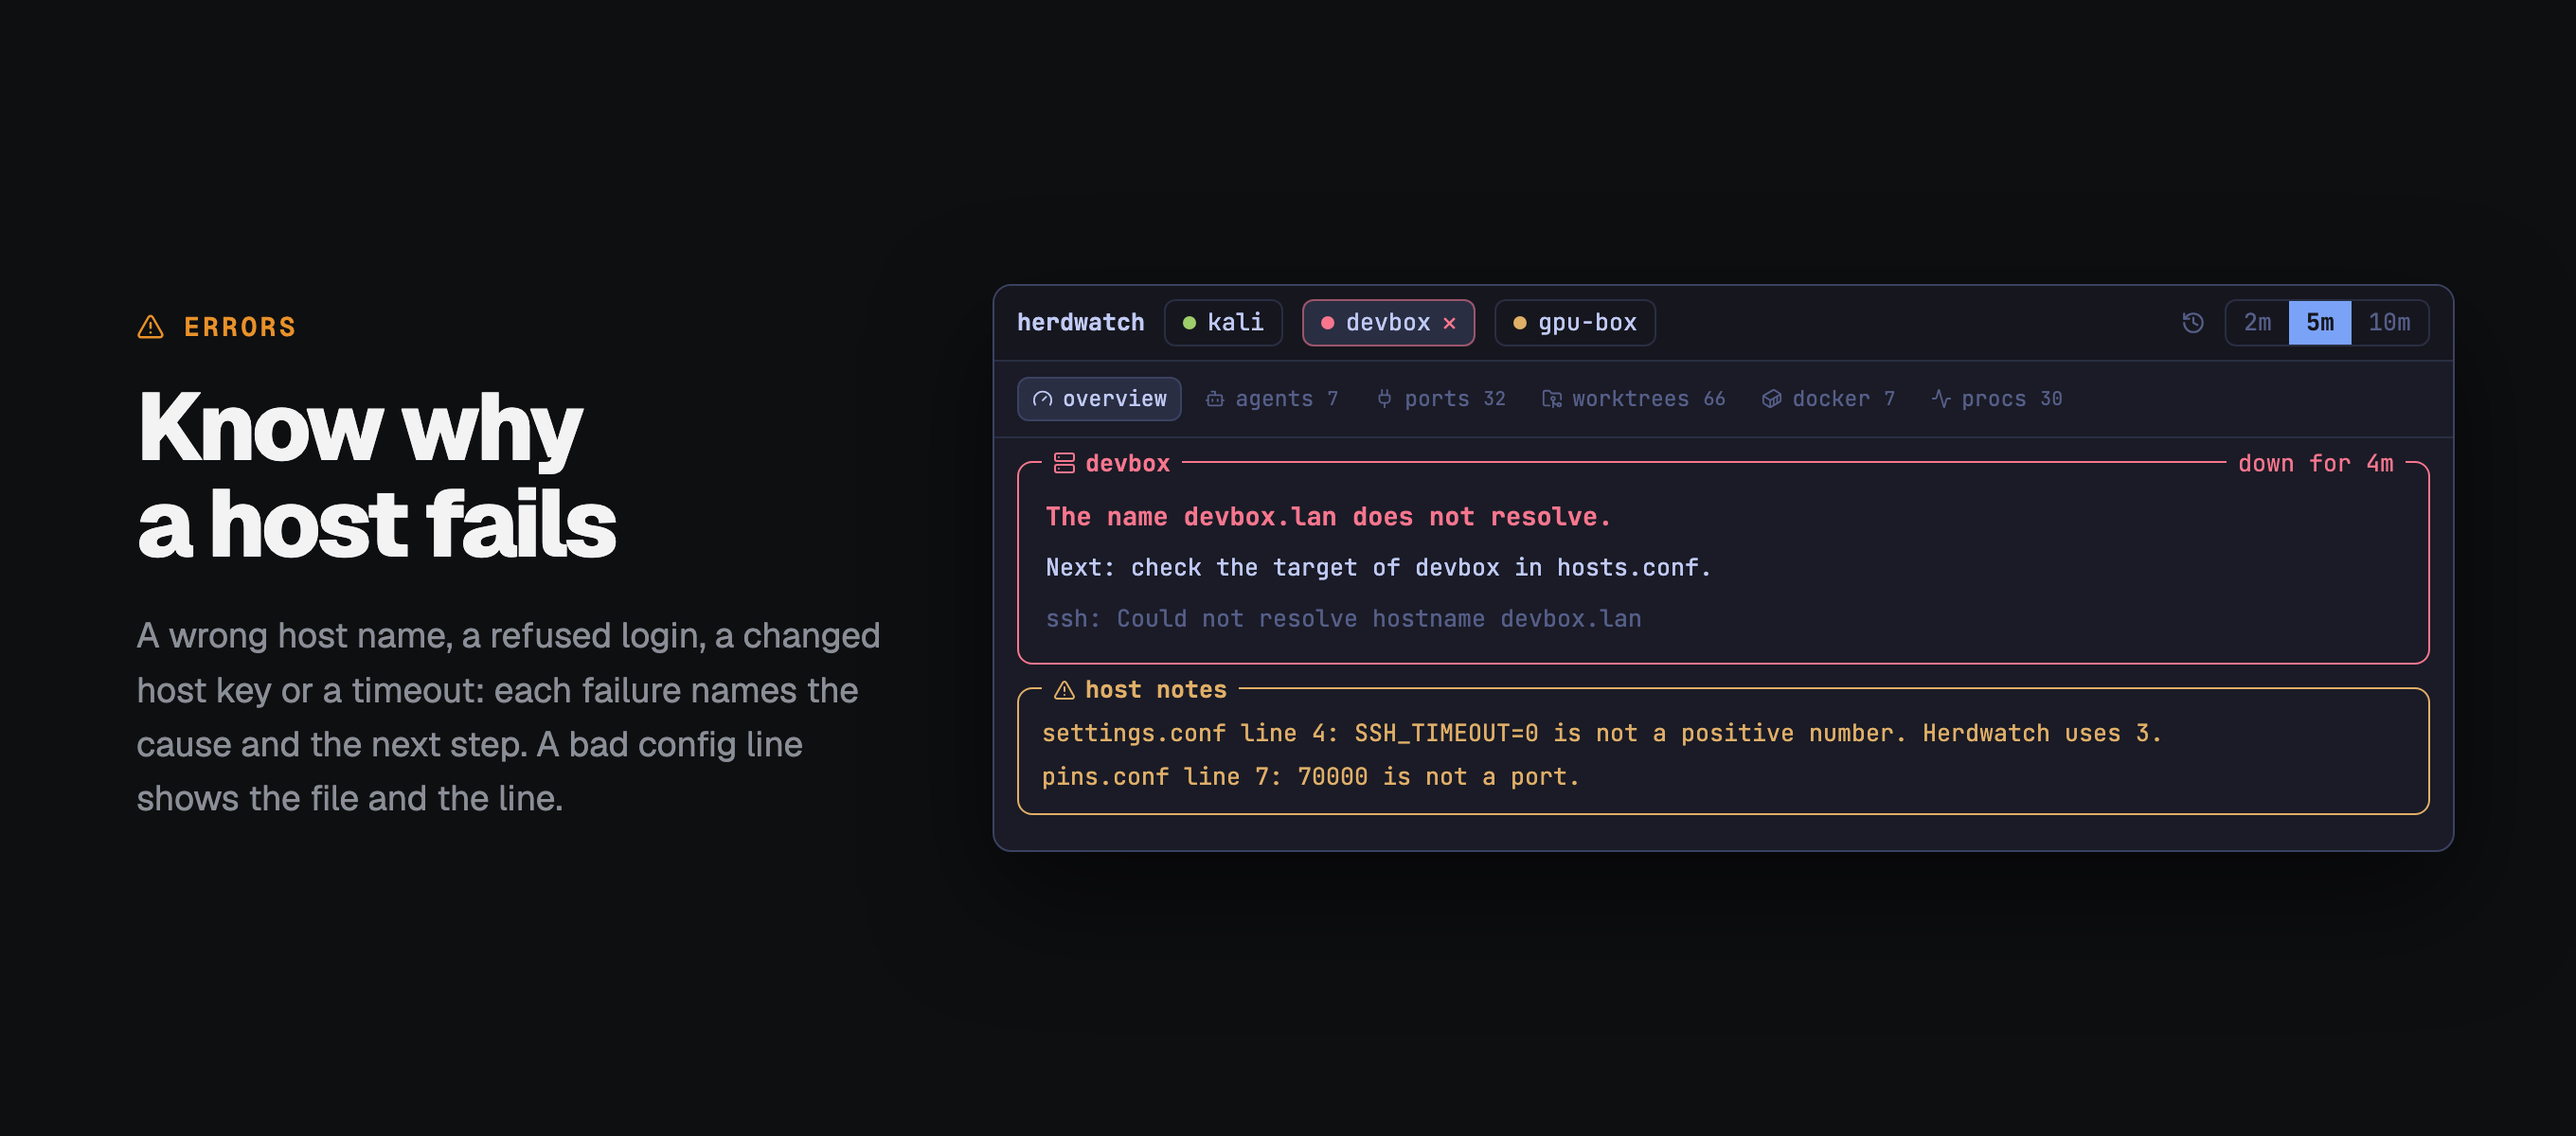
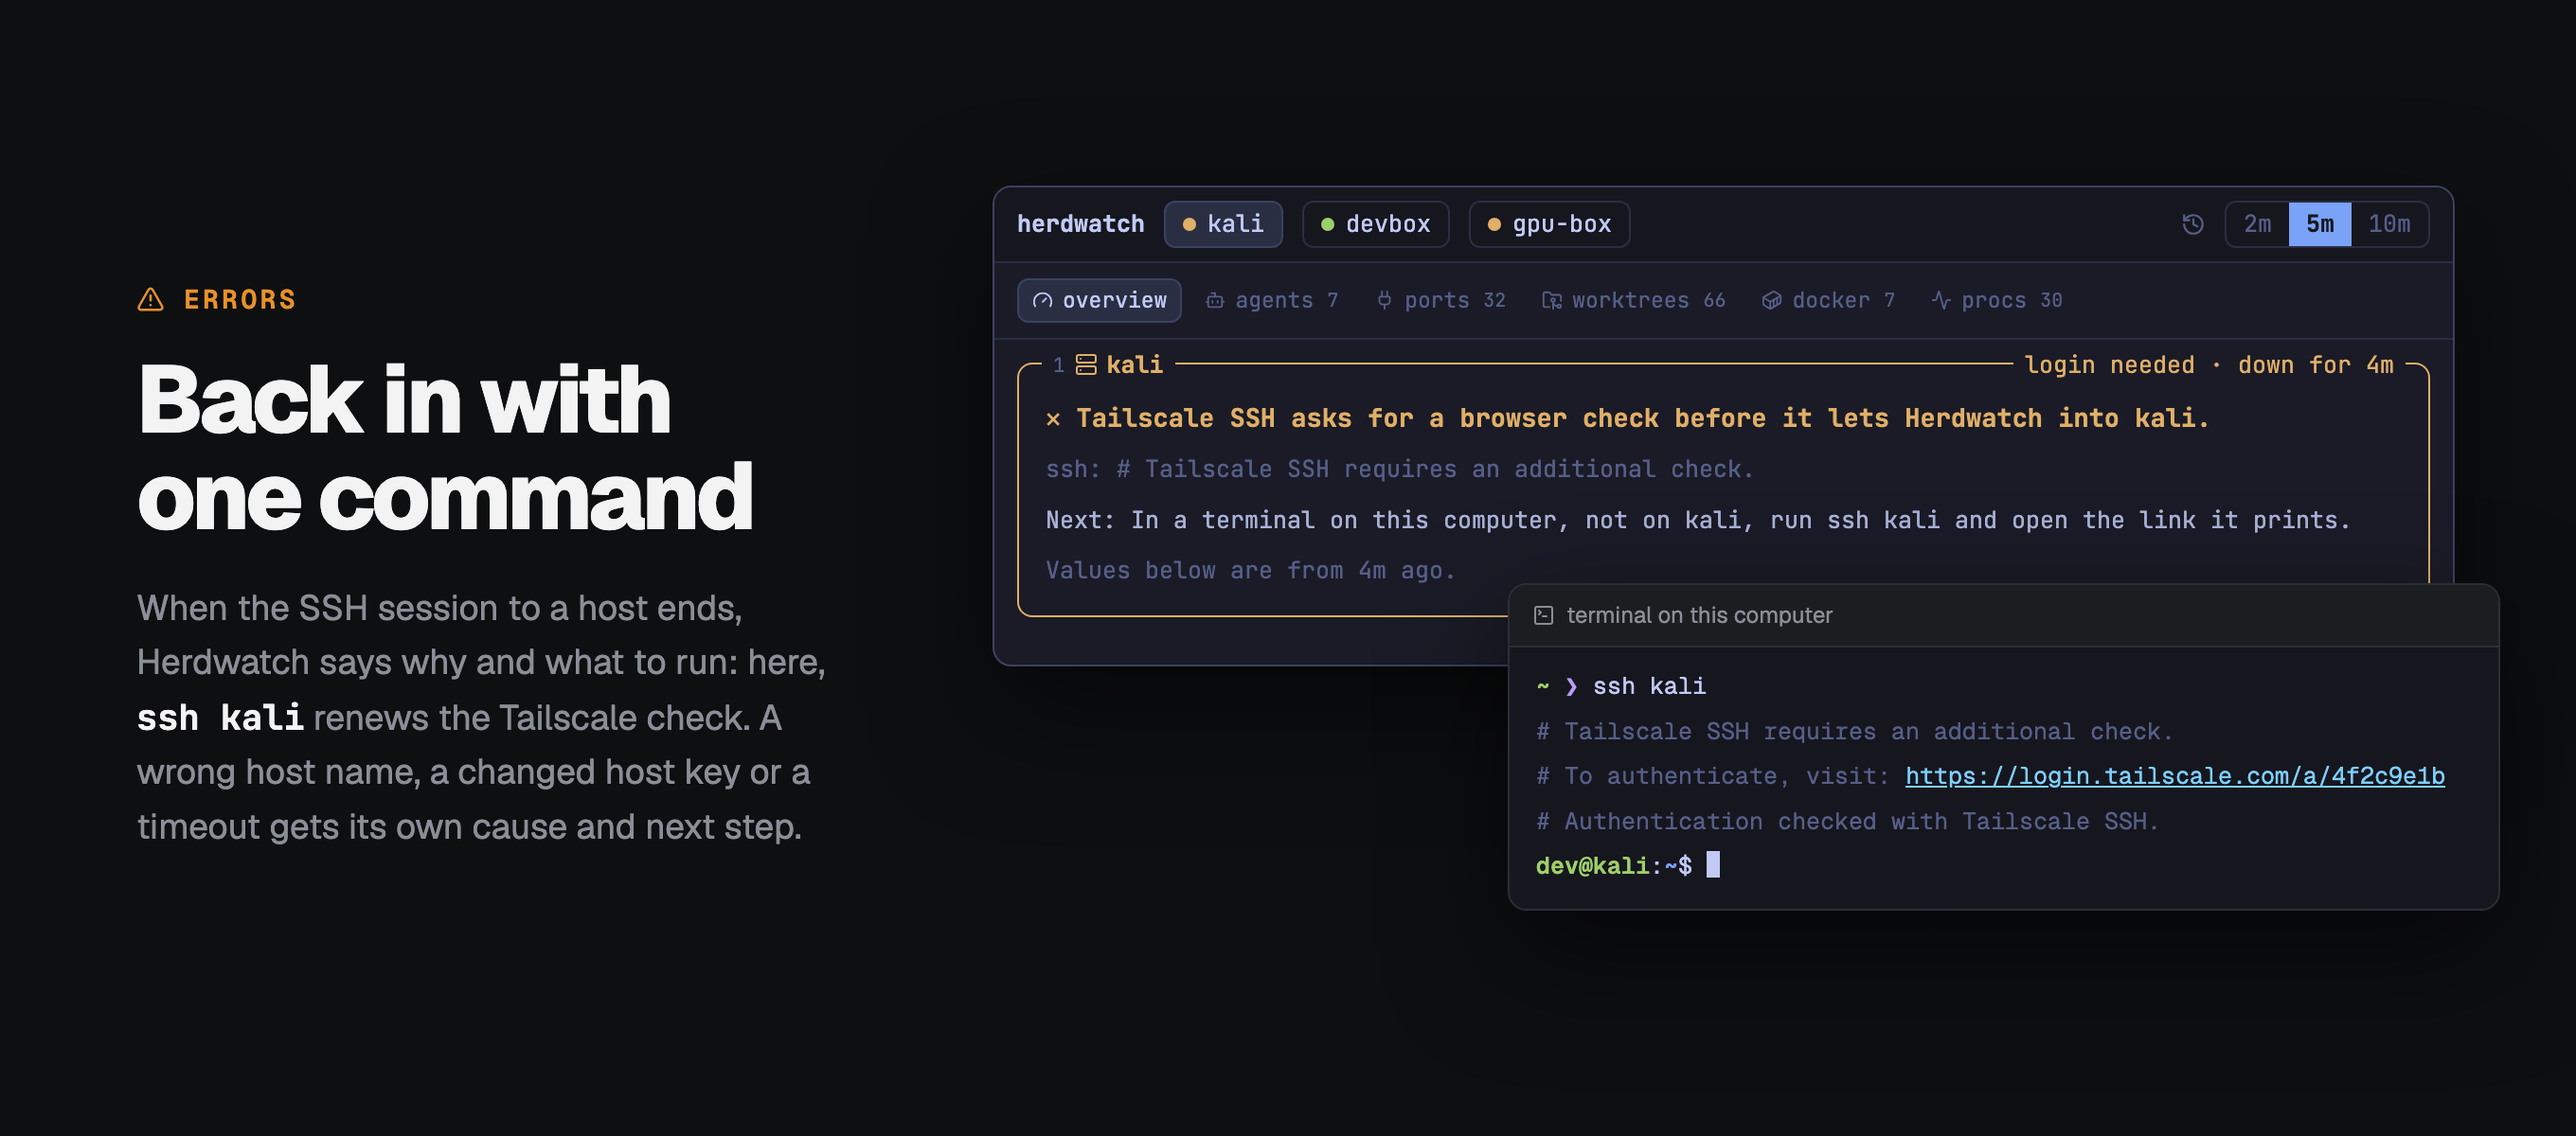
docs: show a dropped SSH session and its fix on the errors card
The errors card showed a host name that does not resolve and two bad
config lines. It now shows the case that users meet most: the Tailscale
SSH check of kali expires, and the console says "login needed", gives the
reason, and tells you to run ssh kali on this computer and open the link.
A terminal beside the console shows that command and its output.

The console text is the real text from failure-guidance.js and the
unreachable panel in views/console.js. The README alt text matches.

diff --git a/README.md b/README.md
@@ -32,7 +32,7 @@ The pictures use sample hosts and numbers.
 
 <p><img src="assets/card-actions.png" alt="The Remove worktree dialog over the worktrees view, with the option to delete the branch" width="100%"></p>
 
-<p><img src="assets/card-errors.png" alt="A host that is down, with the reason, the next step and two bad config lines" width="100%"></p>
+<p><img src="assets/card-errors.png" alt="kali needs a login again: the console names the Tailscale SSH check and says to run ssh kali, and a terminal shows that command" width="100%"></p>
 
 ## Install
 
